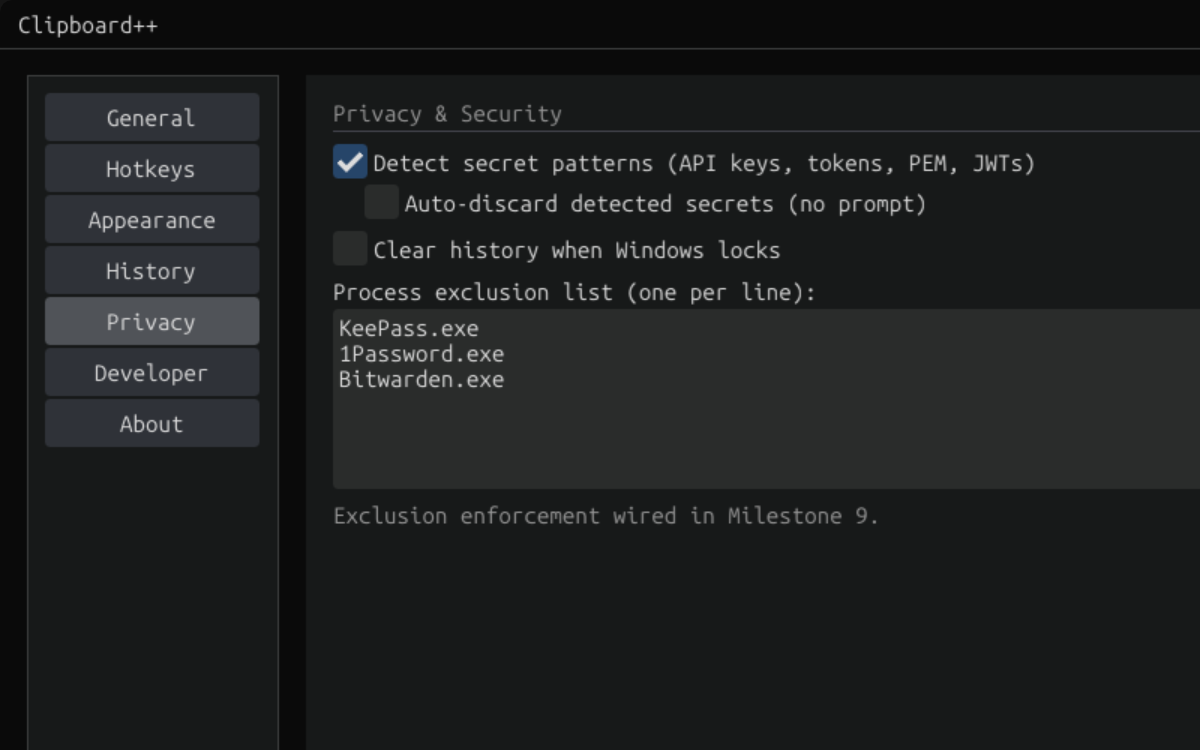
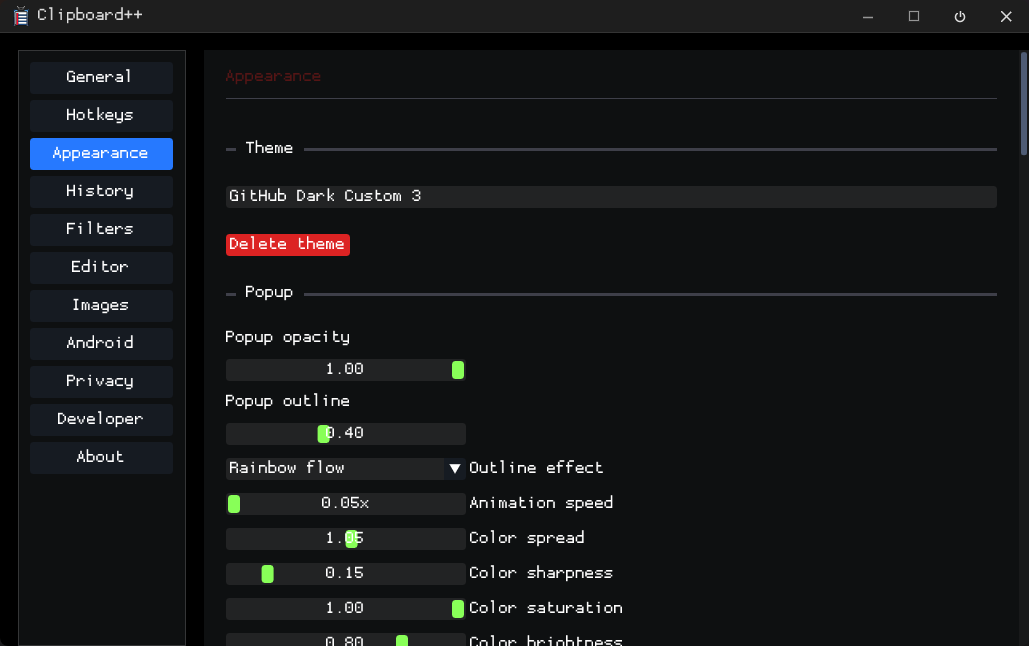
Polish GitHub README and screenshots
Replace the README screenshot section with clickable previews using the refreshed screenshot set.

Clarify the two-way Android sync workflow in the README and remove release.ps1 from repository tracking while keeping it ignored locally.

diff --git a/README.md b/README.md
@@ -2,6 +2,8 @@
 
 A lean, modern Windows clipboard manager built with C++17, Dear ImGui (docking branch), DirectX 11, and CMake. Runs as a system tray app with a main settings window, an always-on-top quick paste popup, configurable hotkeys, multiple named clipboard profiles, image capture, Android clipboard sync, and a CLI.
 
+Clipboard++ can sync copied Android text into a dedicated Windows Android clipboard list, send any saved Clipboard++ item back to Android from the right-click item menu, and send highlighted Windows text to Android system-wide with the default `Ctrl+Alt+Shift+Z` hotkey.
+
 **Current release:** Beta 6  
 **Platform:** Windows 10 / 11 — no installer, no runtime required  
 **Developed by:** james28909 with AI-assisted development from OpenAI Codex and Claude
@@ -20,35 +22,29 @@ This repository contains multiple Clipboard++ tools and companion projects that 
 | **SQLite Editor** | `sqlite_editor.exe` | Standalone SQLite database viewer and query tool |
 | **JSON Viewer** | `json_viewer.exe` | Standalone JSON file viewer with syntax highlighting and tree view |
 
-All three are built from the same repository root using a single build script. Each has its own context menu `.reg` template for Windows Explorer shell integration.
+The Windows tools are built from the same repository root using a single build script. The viewer tools include context menu `.reg` templates for Windows Explorer shell integration.
 
 ---
 
 ## Screenshots
 
-Quick paste popup:
-![Clipboard++ popup window](docs/images/clipboardpp-popup-window.png)
+Click any preview to open the full-size image.
 
-Popup with history and controls:
-![Popup example history](docs/images/popup-example-history.png)
+| Quick paste popup | Android clipboard list |
+|---|---|
+| [<img src="docs/images/Popup-All.png" alt="Clipboard++ popup window" width="420">](docs/images/Popup-All.png) | [<img src="docs/images/Popup-Android.png" alt="Popup Android clipboard list" width="420">](docs/images/Popup-Android.png) |
 
-General settings:
-![General settings](docs/images/general.png)
+| General settings | Android sync settings |
+|---|---|
+| [<img src="docs/images/Settings-General.png" alt="General settings" width="420">](docs/images/Settings-General.png) | [<img src="docs/images/Settings-Android.png" alt="Android sync settings" width="420">](docs/images/Settings-Android.png) |
 
-Appearance settings (page 1):
-![Appearance settings page 1](docs/images/appearance-1.png)
+| Hotkey settings | Appearance settings |
+|---|---|
+| [<img src="docs/images/Settings-Hotkeys.png" alt="Hotkey settings" width="420">](docs/images/Settings-Hotkeys.png) | [<img src="docs/images/Settings-Appearance.png" alt="Appearance settings" width="420">](docs/images/Settings-Appearance.png) |
 
-Appearance settings (page 2):
-![Appearance settings page 2](docs/images/appearance-2.png)
-
-System tray popup:
-![System tray popup](docs/images/systray-popup.png)
-
-Android sync settings:
-![Android sync settings](docs/images/android-settings.png)
-
-Popup Android entry point:
-![Popup Android entry point](docs/images/android-popup-entry.png)
+| System tray popup |
+|---|
+| [<img src="docs/images/systray-popup.png" alt="System tray popup" width="300">](docs/images/systray-popup.png) |
 
 ---
 
@@ -56,14 +52,14 @@ Popup Android entry point:
 
 ### Android Clipboard Bridge
 - Companion Android app under `android/clipboardpp-android-api`
+- Android -> Windows: copy text on Android and Clipboard++ can sync it into the dedicated Android list in the Windows popup
+- Windows -> Android: right-click one or more Clipboard++ profile items and choose **Send to Android clipboard**
+- System-wide Windows -> Android: highlight text in any Windows app and press `Ctrl+Alt+Shift+Z` to send it to Android
 - Accessibility-triggered Android clipboard sync that lets Gboard or another keyboard remain active
 - Invisible foreground sync activity that briefly gives the companion app clipboard-read context, then pushes missing items to Windows
 - Clipboard++ Capture Keyboard / IME and floating sync button remain available as fallback/manual tools
-- Dedicated Android list in the Clipboard++ popup
 - Persistent Android endpoint setting in Settings -> Android
 - Manual sync and endpoint health-test controls from Clipboard++
-- Send one or many Clipboard++ profile items to Android from the item context menu
-- Send highlighted Windows text to Android with the configurable `Ctrl+Alt+Shift+Z` hotkey
 - Missing-item reconciliation so already captured Android items can be pushed again if Windows does not currently have them
 
 ### Clipboard Capture
@@ -250,7 +246,6 @@ docs/images/          Screenshots
 tools/                Build helpers
 
 build.ps1             Build script (all targets, Release/Debug, optional clean)
-release.ps1           Version bump + GitHub release automation
 SPEC.md               Feature specification
 AGENTS.md             Detailed implementation notes for coding agents
 ```
@@ -263,7 +258,6 @@ AGENTS.md             Detailed implementation notes for coding agents
 
 - Visual Studio 2022 (Community or higher) with **Desktop development with C++**
 - CMake 3.20+ (bundled with VS, or install separately)
-- `gh` CLI — for `release.ps1` only ([cli.github.com](https://cli.github.com))
 
 ### Build script (recommended)
 
@@ -328,28 +322,6 @@ cmake --build build/.cmake/sqlite_editor --config Release
 cmake -S jsonviewer -B build/.cmake/json_viewer
 cmake --build build/.cmake/json_viewer --config Release
 ```
-
-### Publishing a release
-
-```powershell
-# Bump version, build all, create GitHub release
-.\release.ps1 -Notes "What changed in this release."
-
-# Include debug symbol files (.pdb)
-.\release.ps1 -Notes "..." -IncludePdbs
-
-# Test the pipeline without pushing
-.\release.ps1 -DryRun
-```
-
-`release.ps1` will:
-1. Increment the beta build number in `VERSION` and `MainWindow.cpp`
-2. Build all three projects in both Release and Debug
-3. Rename debug executables with a `d` suffix (`clipboardppd.exe`, etc.)
-4. Commit + tag the version bump
-5. Push and create a GitHub pre-release with all six executables attached
-
----
 
 ## Fonts
 
